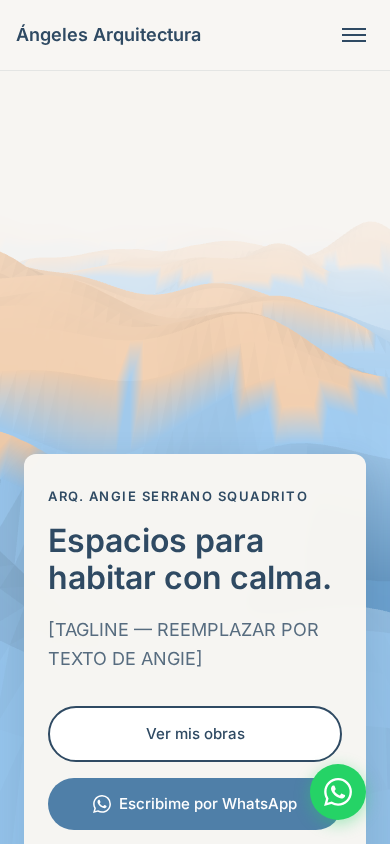
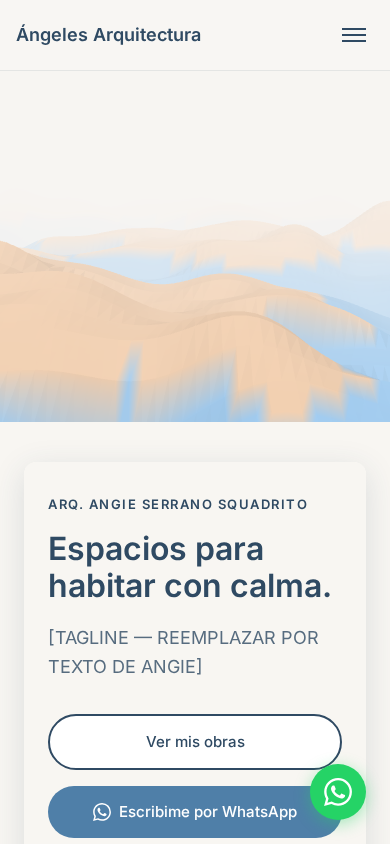
Fix mobile terrain: eliminate overlap, position text below art
Mobile fixes:
- Text panel now starts 2.5rem below terrain (y≈465), zero overlap with art block (ends ~422)
- Camera positioned very close (y=0.05, z=0.1) looking upward (at 0,6,-1) with FOV=95
- Terrain raised to y=7, closer at z=-70 to fill more of frame from top
- No fog on mobile for cleaner render
- Background adjusted to blend better with terrain tones

Desktop unchanged:
- Text panel on left, terrain on right
- Same colors and camera positioning

Tests: All hero canvas tests passing

diff --git a/index.html b/index.html
@@ -77,6 +77,7 @@
                 height: 50vh;
                 width: 100%;
                 display: block;
+                overflow: hidden;
             }
             
             .hero .container {
@@ -89,7 +90,8 @@
                 width: auto;
                 min-width: auto;
                 max-width: none;
-                margin: 2rem 1.5rem;
+                margin: 0 1.5rem;
+                margin-top: 2.5rem;
                 padding: 2rem 1.5rem;
                 background: rgba(248, 246, 242, 0.98);
                 position: relative;
@@ -673,18 +675,18 @@
 
   function setupScene() {
     scene = new THREE.Scene();
-    // Use light background color for fog
-    const fogColor = new THREE.Color(0.97, 0.96, 0.95);
+    // Use matching background color - sandy/blue for mobile, light for desktop
+    const fogColor = isMobile ? new THREE.Color(0.82, 0.87, 0.92) : new THREE.Color(0.97, 0.96, 0.95);
     scene.background = fogColor;
-    scene.fog = new THREE.Fog(fogColor, 10, 80);
+    scene.fog = isMobile ? null : new THREE.Fog(fogColor, 10, 80);
 
-    // Mobile needs wider FOV to show more terrain vertically
-    const fov = isMobile ? 70 : 60;
+    // Mobile needs very wide FOV to show more terrain vertically
+    const fov = isMobile ? 95 : 60;
     camera = new THREE.PerspectiveCamera(fov, width / height, 0.1, 1000);
-    // Camera positioning: desktop tilted down, mobile very low looking slightly up
+    // Camera positioning: desktop tilted down, mobile extremely close looking up
     if (isMobile) {
-      camera.position.set(0, 0.8, 0.5);
-      camera.lookAt(0, 2.5, -8);
+      camera.position.set(0, 0.05, 0.1);
+      camera.lookAt(0, 6, -1);
     } else {
       camera.position.set(0, 12, 8);
       camera.lookAt(0, 0, -20);
@@ -769,10 +771,10 @@
 
     terrain = new THREE.Mesh(geometry, material);
     terrain.rotation.x = -Math.PI / 2;
-    // Position terrain closer on mobile, and raise it up
+    // Position terrain closer on mobile, and raise it very high to fill entire frame
     if (isMobile) {
-      terrain.position.z = -80;
-      terrain.position.y = 2;
+      terrain.position.z = -70;
+      terrain.position.y = 7;
     } else {
       terrain.position.z = -180;
       terrain.position.y = 0;
@@ -802,10 +804,10 @@
       // Update camera position and FOV for mobile/desktop
       const isMobileNow = width <= 768;
       if (isMobileNow) {
-        camera.fov = 70;
+        camera.fov = 95;
         camera.updateProjectionMatrix();
-        camera.position.set(0, 0.8, 0.5);
-        camera.lookAt(0, 2.5, -8);
+        camera.position.set(0, 0.05, 0.1);
+        camera.lookAt(0, 6, -1);
       } else {
         camera.fov = 60;
         camera.updateProjectionMatrix();
@@ -824,16 +826,16 @@
 
     // Animate terrain forward movement
     const time = performance.now() * 0.001;
-    const resetZ = isMobile ? -80 : -180;
+    const resetZ = isMobile ? -70 : -180;
     terrain.position.z += 0.5;
     if (terrain.position.z > 20) terrain.position.z = resetZ;
 
     // Subtle camera movement based on mouse - keep tilted down
-    const baseY = isMobile ? 0.8 : 12;
-    const lookY = isMobile ? 2.5 : 0;
-    const lookZ = isMobile ? -8 : -20;
-    camera.position.x = (mouse.xDamped - width / 2) * 0.008;
-    camera.position.y = baseY + (mouse.yDamped - height / 2) * 0.005;
+    const baseY = isMobile ? 0.05 : 12;
+    const lookY = isMobile ? 6 : 0;
+    const lookZ = isMobile ? -1 : -20;
+    camera.position.x = (mouse.xDamped - width / 2) * 0.002;
+    camera.position.y = baseY + (mouse.yDamped - height / 2) * 0.001;
     camera.lookAt(0, lookY, lookZ);
 
     renderer.render(scene, camera);
